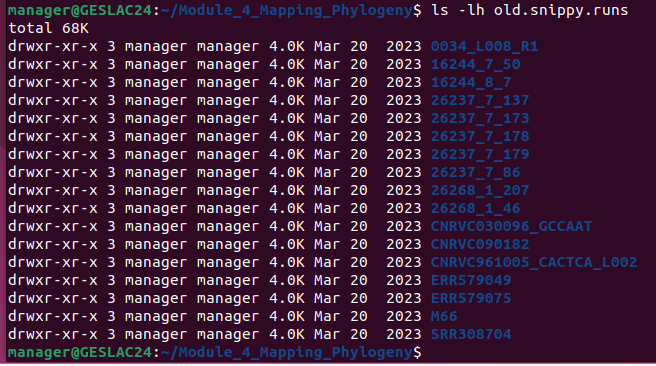
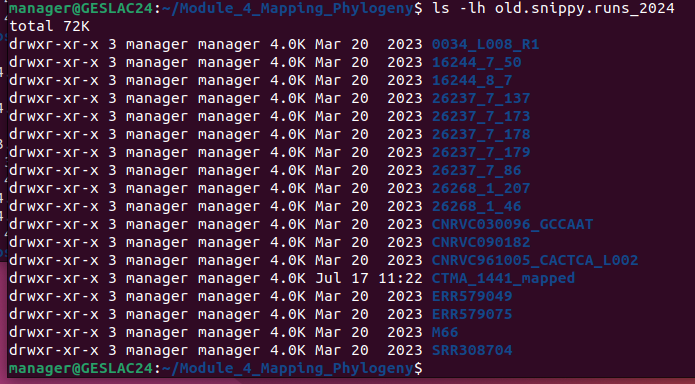
Update screenshots for Mapping manual

diff --git a/Manuals/Mapping_and_Phylogenetics/Mapping+Phylo.md b/Manuals/Mapping_and_Phylogenetics/Mapping+Phylo.md
@@ -411,20 +411,33 @@ We can add this genome to a collection of genomes mapped using `snippy-core`.
 
 For this exercise, we will again retrieve our data from the github folder:
 
+```
+cp ../github_repository/Modules/Mapping_and_Phylo/old.snippy.runs_2024.tar.gz .
+```
+Check the files are there:
+```
+ls -lh
+```
 
+![snippy-context.copy-git.ls](snippy-context.copy-git.ls__2024.png)
+
+
+(Note that there is an existing file in our directory called `old.snippy.runs.2023.tar.gz - we will not be using this).
+
+<br>
 
 First, let’s extract the old `snippy` runs from our archive file
 ```
-tar -zxf old.snippy.runs.2024.tar.gz
+tar -zxf old.snippy.runs_2024.tar.gz
 ```
-We can see that we now have a new directory `old.snippy.runs`
+We can see that we now have a new directory `old.snippy.runs_2024`
 ```
 ls -lh
 ```
 ![snippy-context.tar.ls1](untar.old-snippy-files.ls__2024.png)
 
 ```
-ls -lh old.snippy.runs
+ls -lh old.snippy.runs_2024
 ```
 ![snippy-context.tar.ls2](untar.old-snippy-files.ls2__2024.png)
 
@@ -433,39 +446,41 @@ ls -lh old.snippy.runs
 Now lets use `snippy-core` to summarise all these genomes along with the new ones and create a multiple sequence alignment
 
 ```
-snippy-core --ref new-sample-1/ref.fa old.snippy.runs/* new-sample-1 new-sample-2 CTMA_1441.short CTMA_1441.long
+snippy-core --ref references/Vibrio_cholerae_O1_biovar_eltor_str_N16961_v2.fa old.snippy.runs_2024/* new-sample-1 new-sample-2 CTMA_1441.short CTMA_1441.long_polish CTMA_1441.long_nopolish
 ```
-![snippy-core.run1](snippy-core-run.png)
+![snippy-core.run1](snippy-core-run__2024.png)
 
 `Snippy` has now created a number of files, including a ‘core SNP alignment’
 ```
 ls -l core.*
 ```
-![snippy-core.run2](snippy-core.ls1.png)
+![snippy-core.run2](snippy-core.ls1__2024.png)
 
 We have various files that summarise our variants, e.g.
 ```
 head core.tab 
 ```
-![snippy-core.run3](snippy-core_head-tab.png)
+![snippy-core.run3](snippy-core_head-tab__2024.png)
 
 And our multiple sequence alignment containing all genomes:
 ```
 head core.full.aln
 ```
-![snippy-core.run4](snippy-core_head.core.aln.png)
+![snippy-core.run4](snippy-core_head.core.aln__2024.png)
 
 This file masks sequences with low confidence in different ways, but for some applications we want everything masked in the same way. Let’s change that so anything uncertain is marked as ’N’ using the `snippy-clean_full_aln` script that comes with `snippy`.
 ```
 snippy-clean_full_aln core.full.aln > clean.full.aln
 ```
-![snippy-core.run5](snippy-core_clean.aln.png)
+![snippy-core.run5](snippy-core_clean.aln__2024.png)
 
 <br>
 
 ## Phylogenetics
 
 Now that we have a clean multiple sequence alignment, we are now going to use `IQ-TREE` to build a maximum likelihood phylogeny.
+
+<br>
 
 ### Make a SNP-only alignment using `snp-sites`
 
@@ -475,7 +490,7 @@ We will use `snp-sites` to do this. You can view the options for `snp-sites`
 ```
 snp-sites
 ```
-![snp-sites.1](snp-sites.help.png)
+![snp-sites.1](snp-sites.help__2024.png)
 
 First, remove all the invariant sites and create a SNP-only multiple sequence alignment.
 ```
@@ -485,7 +500,7 @@ We can see how many invariant sites were removed (and what proportion of A, T, G
 ```
 snp-sites -C clean.full.aln
 ```
-![snp-sites.2](snp-sites_run.png)
+![snp-sites.2](snp-sites_run__2024.png)
 
 <br>
 
@@ -494,7 +509,7 @@ We can look at the options for `IQ-TREE` below
 ```
 iqtree -h
 ```
-![iqtree.1](iqtree-help.png)
+![iqtree.1](iqtree-help__2024.png)
 
 <br>
 
@@ -510,7 +525,7 @@ In the command below, we:
 iqtree -s clean.full.SNPs.aln -fconst $( snp-sites -C clean.full.aln ) -m GTR+F+I -T 2 -mem 2G -B 1000 -o M66
 ```
 
-![iqtree.2](iqtree-run.1.png)
+![iqtree.2](iqtree-run.1__2024.png)
 
 <br>
 
@@ -518,7 +533,7 @@ Look at folder
 ```
 ls -lh clean.full.*
 ```
-![iqtree.3](iqtree_-ls-after.png)
+![iqtree.3](iqtree_-ls-after__2024.png)
 
 <br>
 
@@ -533,7 +548,7 @@ We can look at the raw text
 ```
 cat clean.full.SNPs.aln.tre
 ```
-![iqtree.4](iqtree_less-newick-file.png)
+![iqtree.4](iqtree_less-newick-file__2024.png)
 
 But this is not very helpful - it's just raw text in 'newick' format. 
 
@@ -541,15 +556,18 @@ Instead, we can visualise this using `figtree`
 ```
 figtree clean.full.SNPs.aln.tre &
 ```
+(Note: Remember to include the `&` symbol at the end - this allows figtree to run in the background, and allows you to still use the command prompt)
 
-![figtree.1](figtree_launch.png)
+<br>
+
+![figtree.1](figtree_launch__2024.png)
 
 Ignore the java error messages. The popup box is asking you how to describe the 'bootstrap values'. You can click 'OK' here.
 
 You should now have a visualisation of the tree we just generated
 
 
-![figtree.2](figtree_initial.tree.png)
+![figtree.2](figtree_initial.tree__2024.png)
 
 
 <br>
